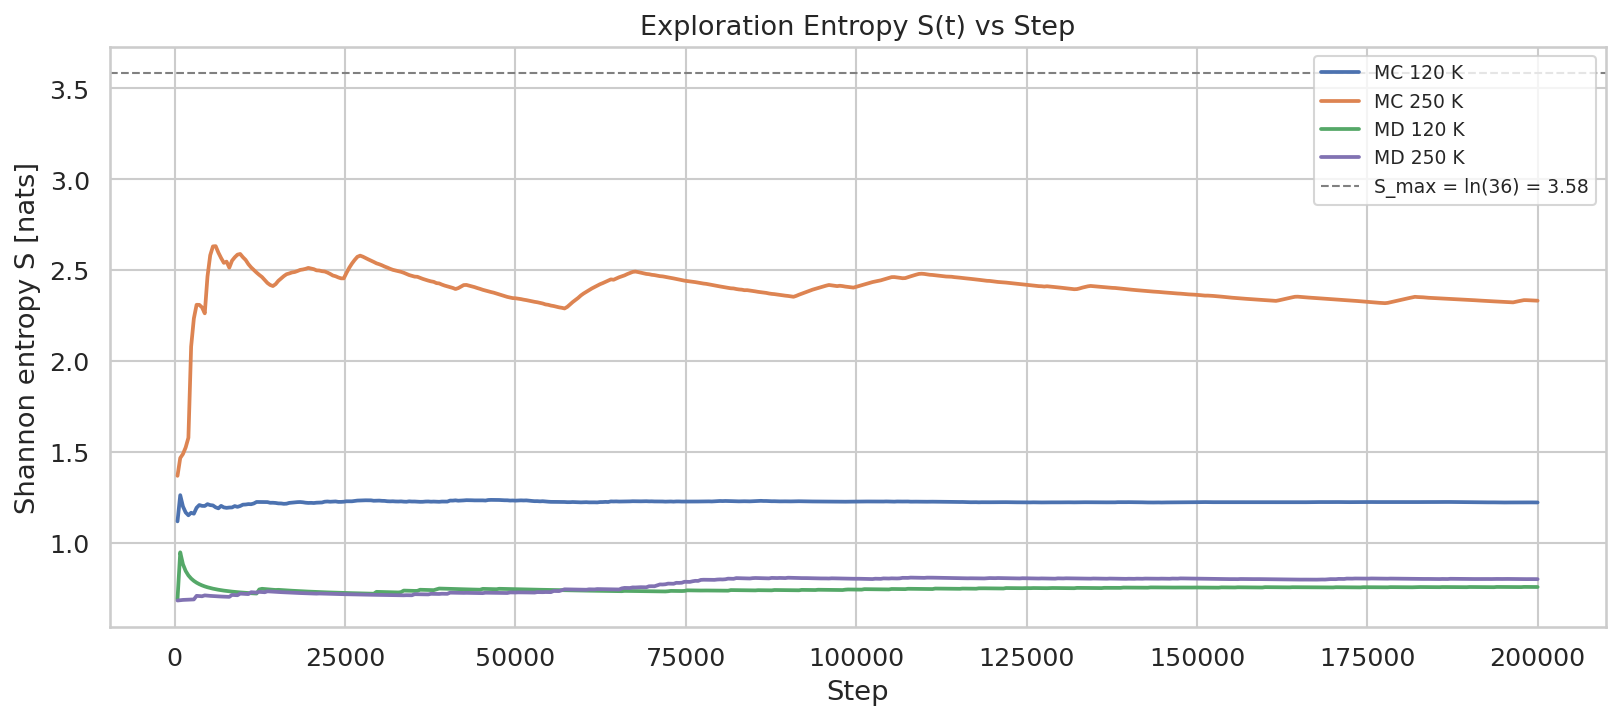
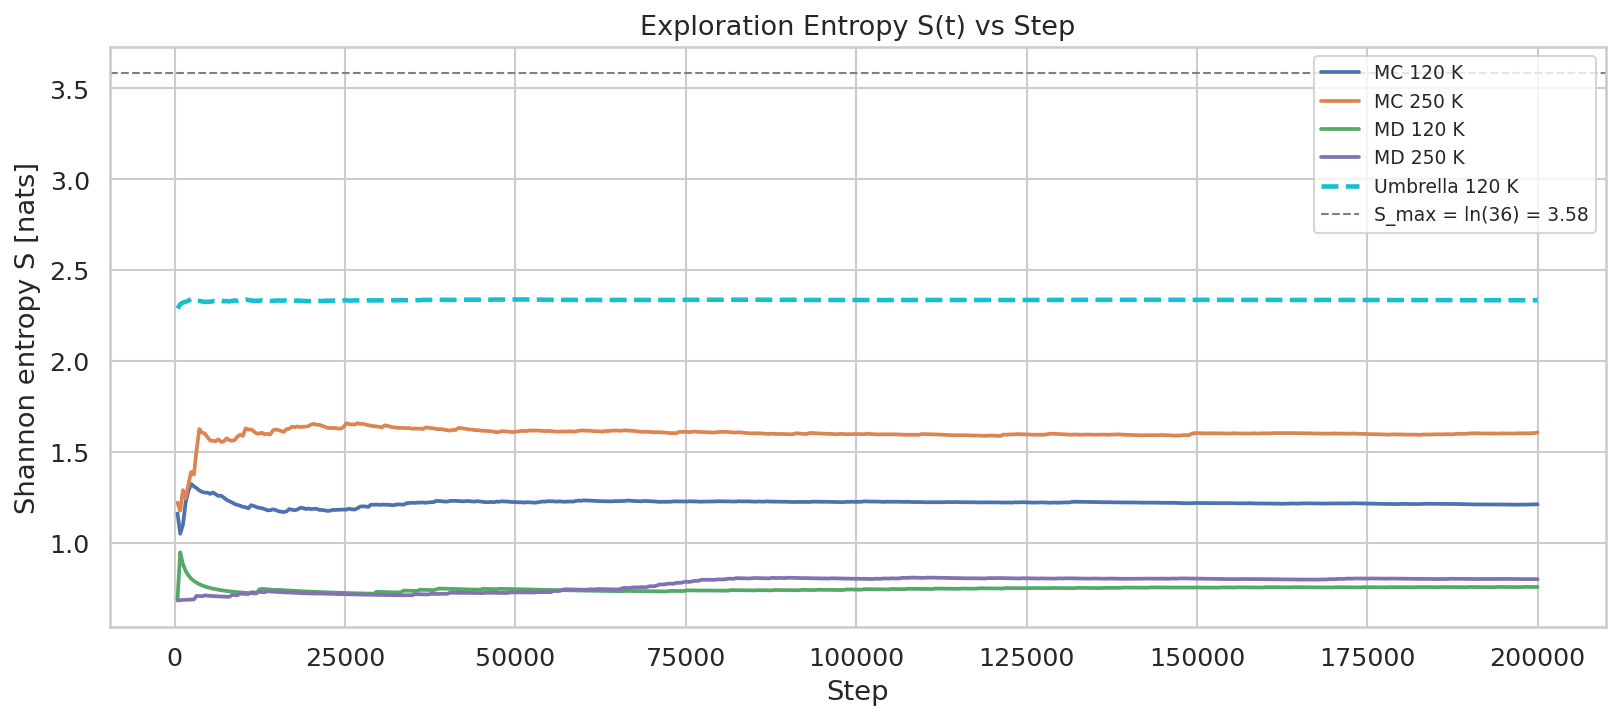
feat: update umbrella sampling configuration and add robust transition counting with debouncing, accompanied by extensive WHAM analysis plots.

diff --git a/src/pentane/plotting.py b/src/pentane/plotting.py
@@ -30,20 +30,31 @@ def _save(fig, path):
     print(f"  saved → {path}")
 
 
-def _count_crossings(traj: np.ndarray, threshold_deg: float = 90.0) -> int:
-    """Count transitions that cross ±threshold through the barrier region.
+def _count_crossings(traj: np.ndarray, threshold_deg: float = 90.0,
+                     min_dwell: int = 50) -> int:
+    """Count genuine trans↔gauche transitions with debouncing.
 
-    A crossing is defined as a step where φ passes through +threshold or
-    -threshold (i.e., a trans↔gauche transition).
+    A transition is only counted when the molecule has dwelt in a new state
+    for at least ``min_dwell`` consecutive steps, suppressing false positives
+    from rapid librations near the barrier.
+
+    Parameters
+    ----------
+    traj         : np.ndarray [rad]  raw dihedral trajectory
+    threshold_deg: float  ±90° separates trans (|φ|>90°) from gauche (|φ|<90°)
+    min_dwell    : int    minimum steps in new state before it counts as a crossing
     """
-    threshold = np.radians(threshold_deg)
+    traj_deg = traj * R2D
+    state = np.where(np.abs(traj_deg) > threshold_deg,
+                     1, -1)  # 1=trans, -1=gauche
     crossings = 0
-    for i in range(1, len(traj)):
-        a, b = traj[i - 1], traj[i]
-        if (a < threshold and b >= threshold) or (a >= threshold and b < threshold):
+    last_change = 0
+    current = state[0]
+    for i in range(1, len(state)):
+        if state[i] != current and (i - last_change) >= min_dwell:
             crossings += 1
-        if (a > -threshold and b <= -threshold) or (a <= -threshold and b > -threshold):
-            crossings += 1
+            current = state[i]
+            last_change = i
     return crossings
 
 
@@ -69,9 +80,10 @@ def plot_dihedral_timeseries(trajs: dict, out_path: str):
 
     for ax, key, colour in zip(axes, keys, COLORS):
         traj = trajs[key]
-        steps = np.arange(len(traj))
-        ax.plot(steps, traj * R2D, color=colour,
-                lw=0.3, alpha=0.75, rasterized=True)
+        plot_stride = max(1, len(traj) // 4000)
+        steps = np.arange(0, len(traj), plot_stride)
+        ax.plot(steps, traj[::plot_stride] * R2D, color=colour,
+                lw=0.6, alpha=0.85, rasterized=True)
         ax.set_ylim(-185, 185)
         ax.yaxis.set_major_formatter(_deg_fmt())
         ax.yaxis.set_major_locator(ticker.MultipleLocator(60))

diff --git a/src/pentane/umbrella.py b/src/pentane/umbrella.py
@@ -56,7 +56,12 @@ def run_window(phi0: float, T: float, cfg: dict, seed: int = None) -> np.ndarray
     rng = np.random.default_rng(seed)
     k = float(cfg["umbrella"]["window_k_K_per_rad2"])
     n = int(cfg["umbrella"]["n_steps_per_window"])
-    delta = np.radians(cfg["simulation"]["mc_delta_phi_deg"])
+    # Use the umbrella-specific step size if present; fall back to simulation key.
+    # Umbrella windows benefit from larger moves (30°) since the bias confines
+    # exploration to each window — the baseline MC uses 5° for fair MD comparison.
+    _us_delta_deg = cfg["umbrella"].get("umbrella_mc_delta_phi_deg",
+                                        cfg["simulation"]["mc_delta_phi_deg"])
+    delta = np.radians(_us_delta_deg)
     beta = 1.0 / T
 
     pos = build_pentane(phi0, np.pi, cfg)
